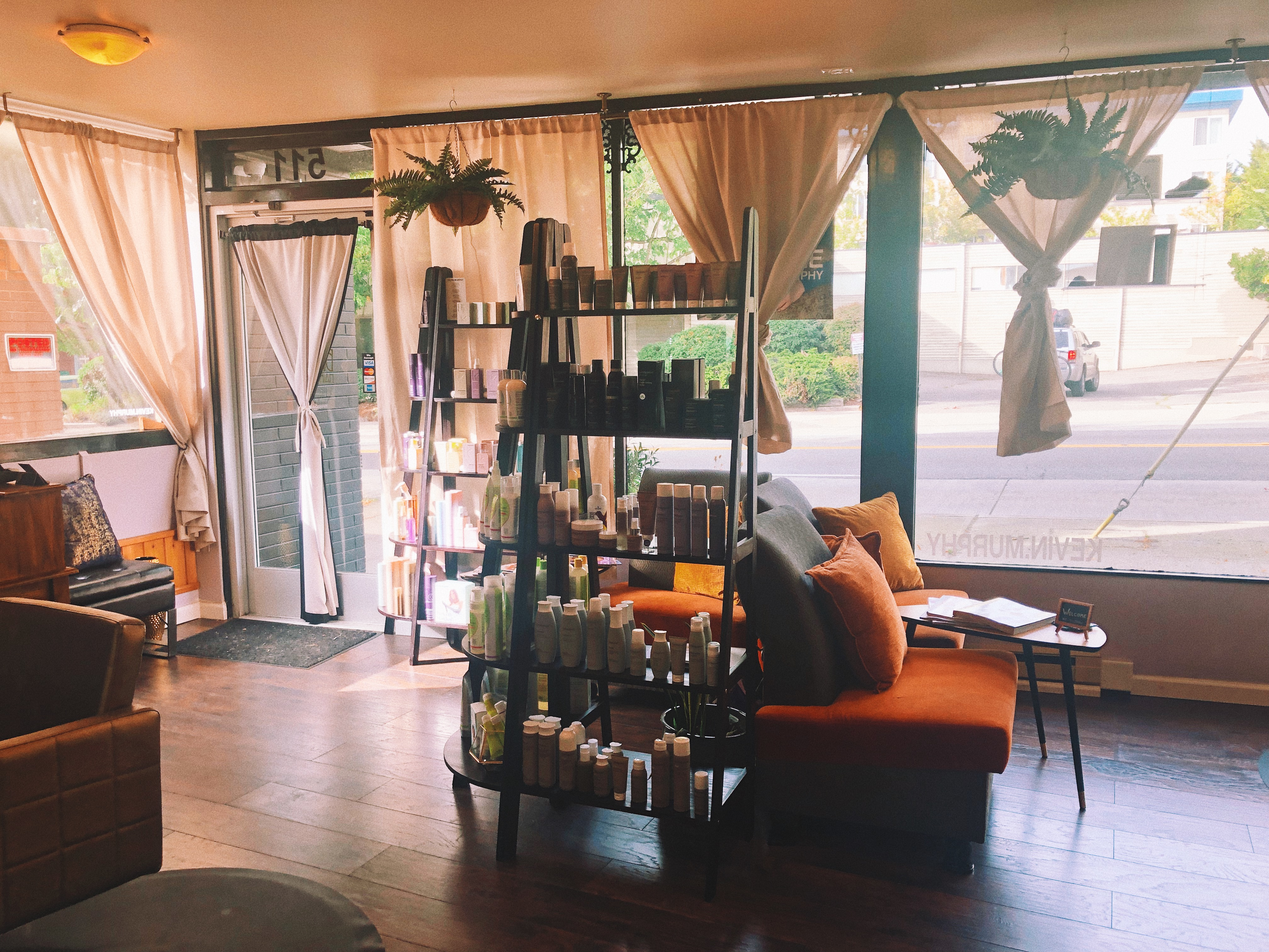
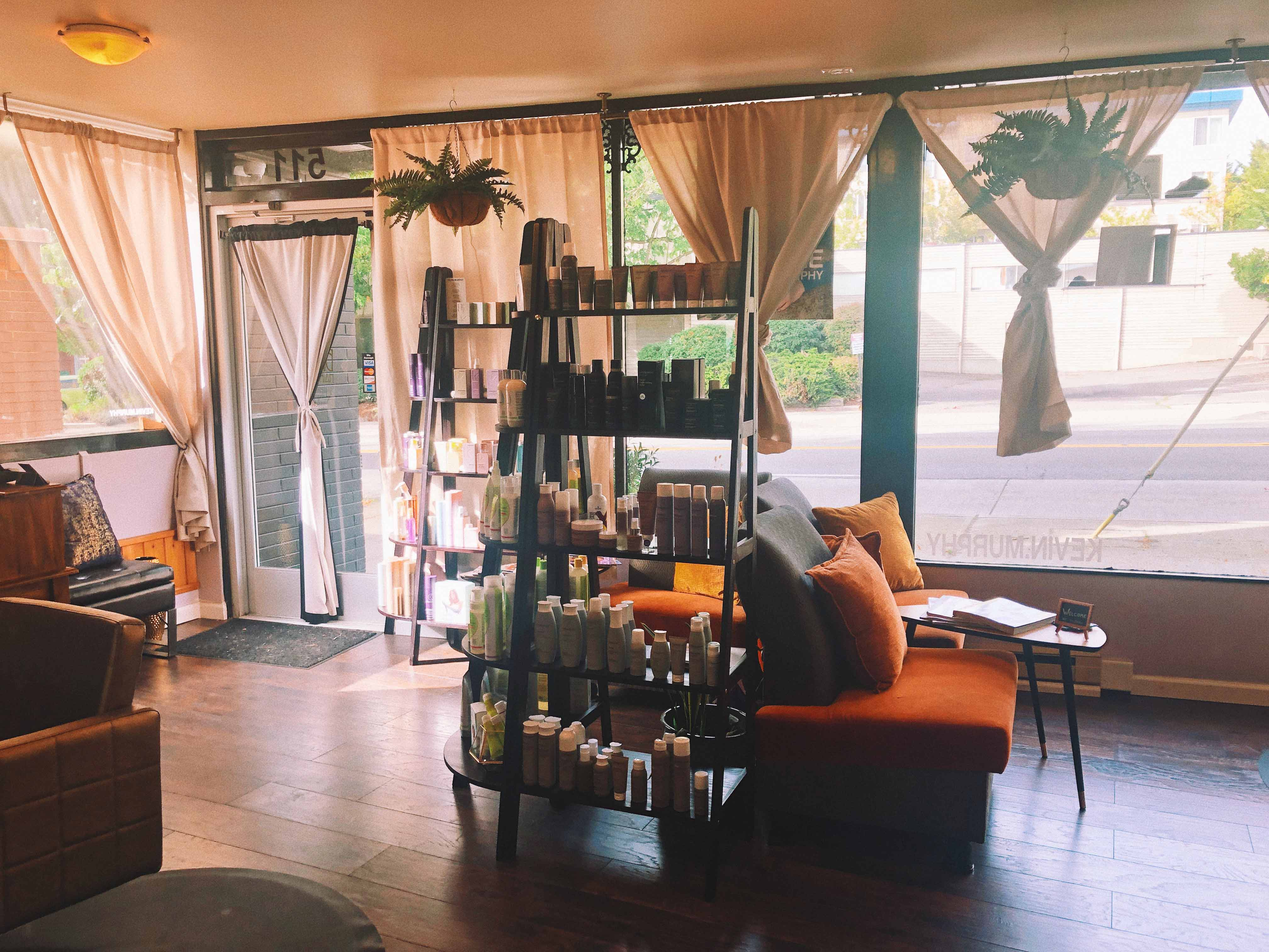
splash photo optimization

Changed region(s): [[0.8125, 0.3108, 0.875, 0.4352], [0.0, 0.3419, 0.0625, 0.4041]]

diff --git a/src/components/homeSwiper.module.css b/src/components/homeSwiper.module.css
@@ -1,7 +1,7 @@
 .slide1 {
   background: url("../images/salon-interior.jpg") no-repeat;
   background-size: cover;
-  background-position-y: center;
+  background-position: 75% 25%;
   min-height: calc(100vh - 60px);
   padding-bottom: 2vw;
   text-align: center;
